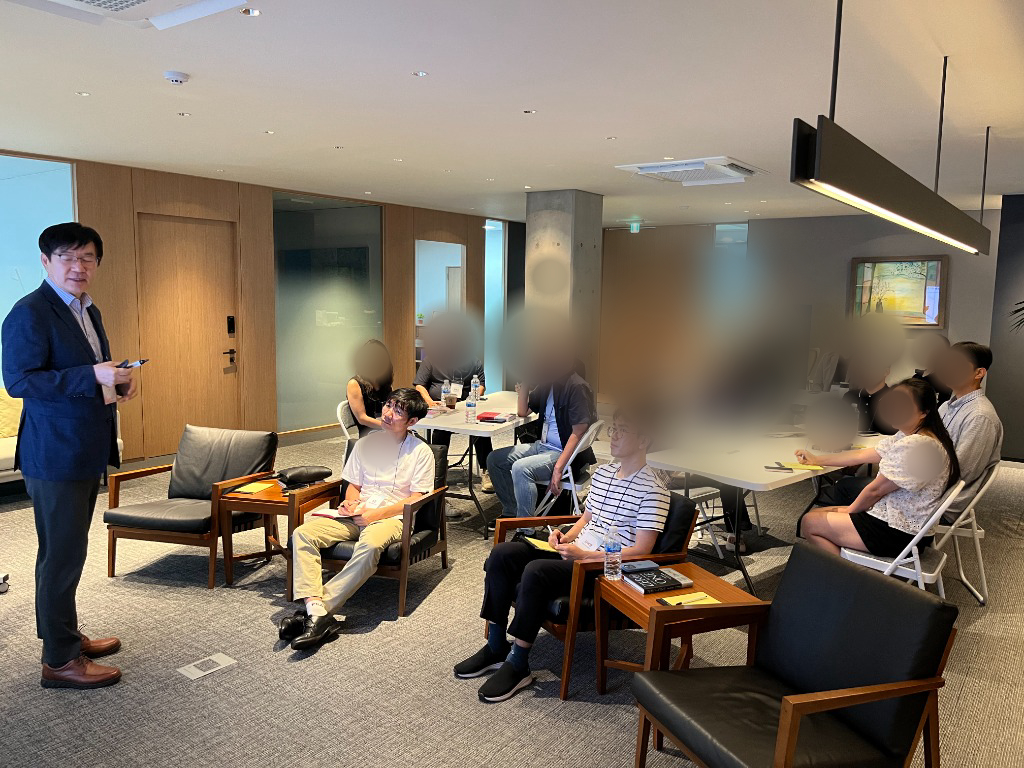
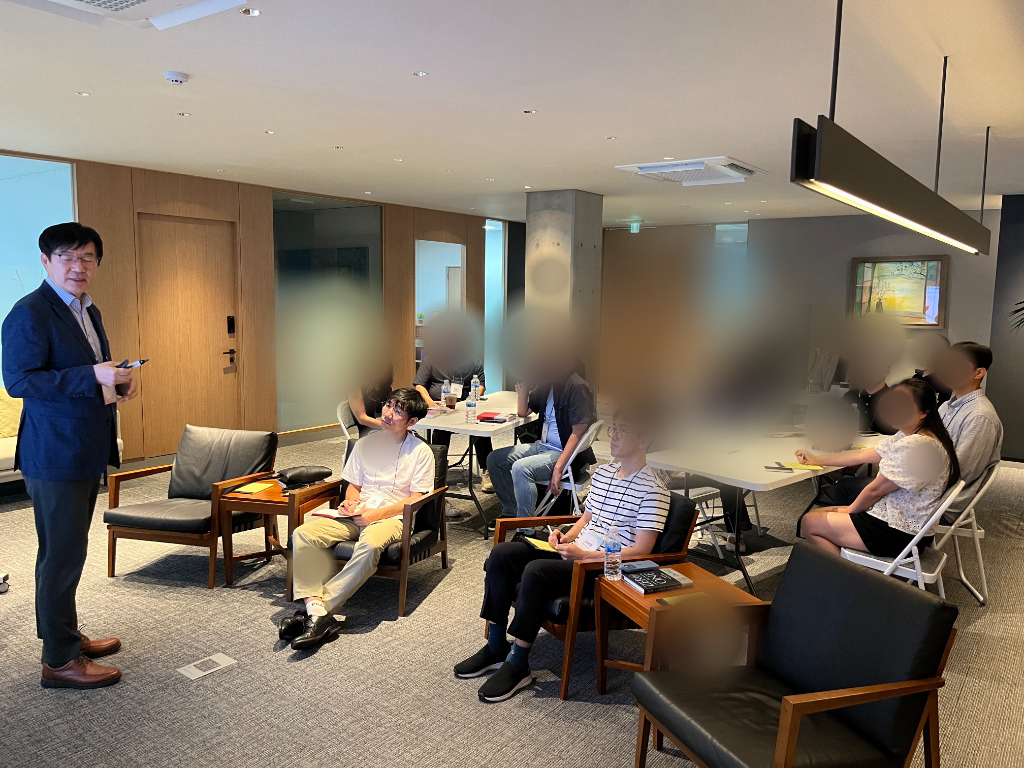
fix(academy): restore blur for faces 11, 12, 17 in photo 2

Changed region(s): [[0.625, 0.75, 0.75, 0.9062], [0.2812, 0.375, 0.4062, 0.5312], [0.2812, 0.6875, 0.3438, 0.7812]]

diff --git a/scratch/censor_activity_images.js b/scratch/censor_activity_images.js
@@ -38,7 +38,7 @@ const imageTargets = [
     mentors: [
       { rx: 0.063, ry: 0.33, radius: 0.04 }  // 이상하 회장님 (좌측 서 계신 분)
     ],
-    ignoreDetectionIds: [7, 11, 12, 17, 20], // 7, 20은 이상하 회장님 / 11, 12, 17은 얼굴이 아니거나 블러 해제 요청된 번호
+    ignoreDetectionIds: [7, 20], // 7, 20은 이상하 회장님 보존 (11, 12, 17번 앞에 앉은 청년들은 다시 블러 처리 복원)
     manualFaces: []
   },
   {
